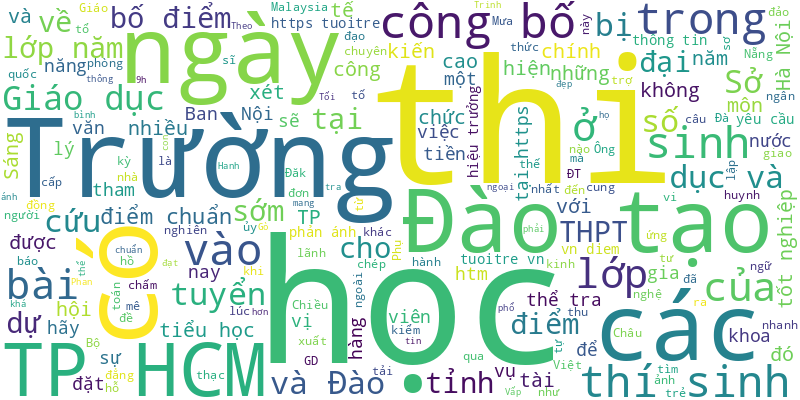
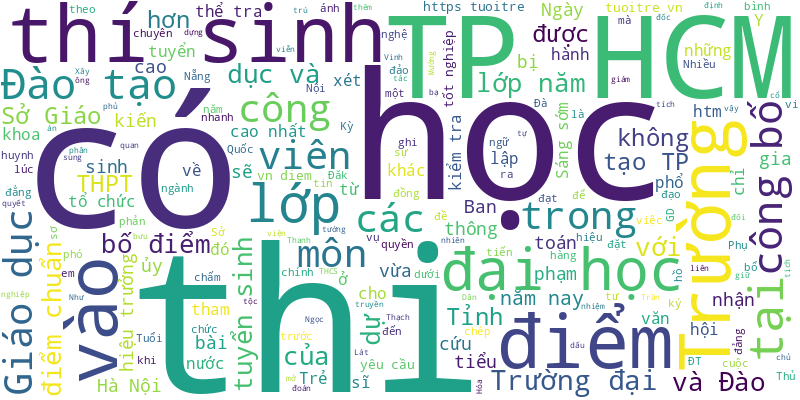
🍀 = 80%

diff --git a/README.md b/README.md
@@ -1,8 +1,20 @@
 # Tuoi Tre RSS 
 
 ## Giáo dục 
-- "Mưa" điểm 10 xuất hiện ở môn ngoại ngữ. Không có thí sinh nào đạt điểm thi 10 môn ngữ văn.
-- Sáng sớm 19-6, Sở Giáo dục và đào tạo TP.HCM công bố điểm thi lớp 10 năm 2024. Thí sinh có thể tra cứu tại https://tuoitre.vn/diem-thi.htm
+- Ngày 19-6, Sở Giáo dục và Đào tạo TP.HCM công bố điểm tuyển sinh lớp 10. Tuổi Trẻ ghi nhận những phân tích, dự đoán của giáo viên về điểm chuẩn vào các trường THPT công lập năm học 2024 - 2025.
+- Trường đại học Công nghiệp Hà Nội, Trường đại học Xây dựng Hà Nội, Học viện Công nghệ bưu chính viễn thông... vừa công bố điểm chuẩn xét học bạ, có ngành điểm chuẩn cao nhất 28,97 điểm.
+- Thủ tướng Chính phủ vừa ký quyết định bổ nhiệm ông Trần Cao Vinh, chủ tịch hội đồng trường Trường đại học Khoa học tự nhiên (Đại học Quốc gia TP.HCM), giữ chức phó giám đốc Đại học Quốc gia TP.HCM.
+- Ủy ban Kiểm tra Tỉnh ủy Thanh Hóa sẽ vào cuộc tiến hành kiểm tra khi có dấu hiệu vi phạm đối với tổ chức đảng, đảng viên liên quan đến công tác tuyển sinh vào Trường phổ thông Dân tộc nội trú THCS Mường Lát.
+- Trường đại học Y khoa Phạm Ngọc Thạch, TP.HCM vừa bổ sung đề án tuyển sinh đại học 2024, với việc mở thêm ngành y học cổ truyền.
+- 55.264/98.464 thí sinh có điểm môn toán thi lớp 10 tại TP.HCM dưới 5 điểm. Như vậy, hơn 56% thí sinh có điểm toán dưới trung bình.
+- Nhận được phản ánh bị lừa đảo của học viên đang theo học đào tạo nhân viên hàng không tại Skyteam, phóng viên Tuổi Trẻ vào cuộc. Nhiều thông tin dần hé lộ.
+- 'Ước mơ từ nhỏ của em là trở thành bác sĩ. Em mong muốn chữa bệnh giúp đời', thủ khoa thi vào lớp 10 TP.HCM năm nay chia sẻ.
+- Trường đại học Sư phạm (Đại học Huế) hơn một năm nay không có hiệu trưởng và hiệu phó, mà chỉ có quyền hiệu trưởng.
+- Kỳ thi vào lớp 10 năm nay tại TP.HCM ghi nhận một thí sinh có điểm thi cao nhất là 28,75 và ba thí sinh khác được 28,5 điểm.
+- Sở Giáo dục và Đào tạo TP.HCM vừa công bố phổ điểm các môn thi tuyển sinh lớp 10 năm 2024.
+- Trong số hơn 98.000 thí sinh dự thi lớp 10 tại TP.HCM, chỉ có 49 thí sinh đạt điểm 10 môn toán. Năm trước có 121 thí sinh.
+- Hơn 1.700 thí sinh được điểm 10 môn ngoại ngữ. Không có thí sinh nào đạt điểm thi 10 môn ngữ văn.
+- Sáng sớm 19-6, Sở Giáo dục và Đào tạo TP.HCM công bố điểm thi lớp 10 năm 2024. Thí sinh có thể tra cứu tại https://tuoitre.vn/diem-thi.htm
 - TP.HCM sẽ công bố điểm thi tuyển sinh lớp 10 năm 2024 vào lúc 9h sáng 19-6, sớm hơn dự kiến. Thí sinh có thể tra cứu nhanh tại https://tuoitre.vn/diem-thi.htm
 - Tối 18-6, Sở Giáo dục và Đào tạo TP Đà Nẵng công bố điểm chuẩn thi vào lớp 10. Năm nay Trường THPT Phan Châu Trinh có điểm chuẩn lớp 10 cao nhất với 58,38 điểm.
 - Theo tin từ hội đồng chấm thi tuyển sinh lớp 10 năm 2024 ở TP.HCM, phổ điểm môn toán năm nay khá đẹp.
@@ -19,52 +31,11 @@
 - Cho thí sinh khác chép bài hoặc chép bài của thí sinh khác bị trừ 50% điểm bài môn thi đó trong kỳ thi tốt nghiệp THPT.
 - Dự kiến điểm thi vào lớp 10 và điểm chuẩn các trường THPT công lập ở Đà Nẵng, Trường THTP chuyên Lê Quý Đôn sẽ công bố lúc 19h ngày 18-6.
 - Ngày hội tư vấn xét tuyển diễn ra tại Hà Nội và TP.HCM với sự tham gia của hàng trăm trường đại học, cao đẳng, đơn vị giáo dục trong và ngoài nước.
-- Nữ sinh đi thi lớp 10 mất tích nhiều ngày ở TP Châu Đốc, tỉnh An Giang được cơ quan chức năng tìm thấy ở Đồng Nai và giao cho gia đình.
-- TS Võ Nguyễn Đại Việt, người ở vị trí thứ 17 trong số 47 người Việt vào “top nhà khoa học ảnh hưởng nhất thế giới”, là tác giả của bài báo vừa bị một tạp chí quốc tế gỡ bỏ. Ông giải thích thế nào khi công bố 3 ngày 1 bài báo khoa học?
-- Những ngày qua xuất hiện một số trang thông tin, nhóm Zalo và email mạo danh các đơn vị của Bộ Giáo dục và Đào tạo để cung cấp thông tin, trong đó đăng tải nhiều hình ảnh, bài viết có nội dung lừa đảo chiếm đoạt tài sản.
-- Dưới ánh đèn sân khấu của SIU Piano Competition, từng nốt nhạc vang lên thể hiện tài năng và niềm đam mê của các thí sinh.
-- Kỳ thi sắp tới, thầy mong các em 'hãy vượt qua trùng vi thạch trận như ông lái đò, hãy cắt sợi dây trói buộc số phận mà tự cứu mình như Mị'.
-- Dự hội nghị khoa học tại TP Quy Nhơn, hai giáo sư nổi tiếng Jean-François Joanny và Detlef Lohse gửi gắm đến các bạn trẻ mê nghiên cứu: hãy tò mò về những hiện tượng tự nhiên, tìm hiểu về chúng và đặt câu hỏi tại sao.
-- Sở Nội vụ Hà Nội ngày 14-6 cho biết thông tin phản ánh '63 giáo viên Hà Nội tố bị bùng tiền hỗ trợ đào tạo học thạc sĩ' là không chính xác.
-- Có 8 chương trình đào tạo chuẩn cùng có điểm chuẩn xét học bạ 29,9, gồm kiểm toán, ngân hàng, ngân hàng số, tài chính, công nghệ tài chính, kinh doanh quốc tế, logistics và quản lý chuỗi cung ứng, luật kinh tế.
-- Chiều 15-6, Trường đại học Thương mại chính thức công bố điểm chuẩn bốn phương thức xét tuyển sớm năm nay.
-- Ngoài việc bị phản ánh thu nhiều khoản tiền vô lý, một số học sinh đang lan truyền câu chuyện trường thu cả ‘tiền chống trượt’ tốt nghiệp THPT. Hiệu trưởng đã trả lời về việc này.
-- Chiều 15-6, Phòng Giáo dục và Đào tạo TP Thủ Đức đã công bố đề khảo sát vào lớp 6 năm học 2024-2025.
-- Số liệu được Tổng lãnh sự quán Malaysia tại TP.HCM công bố tại Ngày hội du học Malaysia ngày 15-6.
 ![Edu](Edu.png)
 ## Thời Sự 
-- Bộ trưởng Bộ Công an - thượng tướng Lương Tam Quang đã trình Quốc hội dự thảo Luật Phòng cháy, chữa cháy và cứu nạn, cứu hộ với nhiều quy định mới.
-- Tại các đô thị lớn hiện nay như Hà Nội, TP.HCM, không khó để bắt gặp cảnh đậu xe bừa từ lề đường, vỉa hè đường lớn đến chui vào các con hẻm, khiến giao thông thêm áp lực.
-- Hôm qua (18-6), Quốc hội thảo luận ở hội trường về dự thảo Luật Công đoàn sửa đổi. Dự Luật quy định kinh phí Công đoàn do cơ quan, tổ chức, doanh nghiệp đóng bằng 2% quỹ tiền lương làm căn cứ đóng bảo hiểm xã hội cho người lao động.
-- Hiện một nhánh hầm chui đã nhìn rõ từ bên nay qua bên kia, dự kiến thông xe kỹ thuật vào cuối tháng 8 tới.
-- Chiều 18-6, dự thảo Luật sửa đổi, bổ sung một số điều của Luật Dược được đưa ra bàn thảo tại kỳ họp thứ 7 Quốc hội khóa XV với nhiều điểm mới đáng chú ý.
-- Đề xuất chi tới 50 triệu đồng mua tin phòng chống tham nhũng; TP.HCM muốn mở rộng phạm vi cho xe điện du lịch 4 bánh...
-- Chuyên cơ của Tổng thống Putin dự kiến đến Hà Nội hôm nay 19-6, đưa ông trở lại Việt Nam sau gần 7 năm trong khuôn khổ một chuyến thăm cấp nhà nước.
-- Hôm nay 19-6, nắng nóng gay gắt diễn ra khắp nơi ở Bắc Bộ và Trung Bộ, thời tiết khô hanh. Nam Bộ tối nhiều nơi mưa rào.
-- Giám đốc Công an TP Hà Nội nhấn mạnh chuyến thăm Việt Nam của Tổng thống Nga Putin là sự kiện có ý nghĩa đặc biệt quan trọng, cần đảm bảo tuyệt đối an ninh, an toàn cho đoàn.
-- Lực lượng chức năng cũng yêu cầu người tham gia giao thông chấp hành nghiêm Luật Giao thông đường bộ; khi gặp các xe được quyền ưu tiên thì cần chấp hành theo hướng dẫn phân luồng của lực lượng chức năng và nhanh chóng nhường đường.
-- Chính quyền phường Hàng Bông đã lập biên bản vi phạm hành chính đối với ông P.N.H.. Người phụ nữ trong đoạn clip là khách của quán ông H., và ông này cũng là người kéo cô gái ra khỏi khu vực đường ray tàu hỏa.
-- Mây dông đang phát triển mạnh tại TP.HCM, dự báo đêm nay một vài quận huyện có mưa to.
-- Ngày 18-6, Phó thủ tướng Trần Lưu Quang ký quyết định số 528/QĐ-TTg của Thủ tướng Chính phủ về việc thi hành kỷ luật đối với ông Vũ Chí Giang, phó chủ tịch UBND tỉnh Vĩnh Phúc.
-- Người đi trên quốc lộ 1 nối TP.HCM - Bình Dương tá hỏa khi thấy ô tô bốc cháy, lửa khói cuồn cuộn.
-- Với đề xuất cấm xuất khẩu di vật, cổ vật để tránh mất di sản ra nước ngoài, nhiều đại biểu Quốc hội cho rằng là cần thiết trong bối cảnh nhiều cổ vật bị đấu giá, kinh doanh ở nước ngoài.
-- Chủ tịch Quốc hội Trần Thanh Mẫn đề nghị cần kiểm soát chặt chẽ quảng cáo thuốc, không để nội dung quảng cáo sai lệch, người dân tiền mất tật mang do sử dụng thuốc theo quảng cáo.
-- Ông Nguyễn Văn Thành, giám đốc Sở Khoa học và Công nghệ tỉnh Quảng Ngãi, bị tố cáo và hai kết luận tố cáo xác định có nhiều vi phạm nhưng vẫn được đề nghị đánh giá hoàn thành tốt nhiệm vụ.
-- Đại sứ Việt Nam tại Nga Đặng Minh Khôi nhận định việc Tổng thống Putin thăm cấp nhà nước thể hiện sự coi trọng của Nga, đồng thời cho thấy Việt Nam độc lập và tự chủ trong đối ngoại.
-- Biết vợ chồng nạn nhân muốn có con nối dõi nên Dung đã đưa thông tin gian dối có khả năng tìm người cho trứng, mang thai hộ để lừa đảo lấy tiền.
-- Thủ tướng vừa có tờ trình Chủ tịch nước tặng quà cho người có công với cách mạng dịp 27-7, tổng kinh phí gần 420 tỉ đồng.
-- Tại dự thảo Luật Dược sửa đổi, Chính phủ đề xuất không được kinh doanh dược trên mạng xã hội và các hình thức kinh doanh điện tử khác.
-- Những ngày này, việc bàn giao mặt bằng cho tuyến metro số 2 (Bến Thành - Tham Lương) trên đường Cách mạng tháng 8 đang gấp rút để kịp hoàn thành khâu này trong tháng 6.
-- Lãnh đạo TP.HCM yêu cầu việc thiết kế kiến trúc sân khấu phục vụ biểu diễn của nhà hát nhạc giao hưởng, nhạc và vũ kịch phải đáp ứng các yêu cầu của sân khấu hiện đại bậc nhất trên thế giới.
-- Chưa đầy 2 tuần sau khi Công an TP.HCM kết luận điều tra, viện kiểm sát cùng cấp đã hoàn tất cáo trạng truy tố cô gái bắt cóc hai bé ở phố đi bộ Nguyễn Huệ để quay clip khiêu dâm.
-- Cầu Vàm Cái Cát tại xã An Điền, huyện Thạnh Phú, tỉnh Bến Tre do báo Tuổi Trẻ vận động, Ngân hàng Nông nghiệp và Phát triển nông thôn Việt Nam đóng góp 300 triệu đồng đã được khánh thành và đưa vào sử dụng vào ngày 18-6.
-- Ông Huỳnh Thanh Phương - chủ tịch Hội Nông dân phường Phước Tân, TP Biên Hòa - bị kẻ lạ dọa giết.
-- Ông Nguyễn Thanh Tùng, tổng giám đốc Công ty cổ phần Thương mại xuất nhập khẩu dầu khí Thái Bình Dương, bị khởi tố, bắt tạm giam vì vi phạm quy định về kế toán gây hậu quả nghiêm trọng.
-- Chủ tịch Tổng liên đoàn Lao động Việt Nam Nguyễn Đình Khang cho hay tài chính công đoàn được Kiểm toán Nhà nước định kỳ kiểm toán 2 năm/lần và báo cáo Quốc hội.
-- Một người đàn ông ở tỉnh Quảng Ninh đã bị truy nã về tội giết người, bỏ trốn lên huyện miền núi Nam Giang, Quảng Nam sau 33 năm thì bị bắt giữ.
-- Trung tâm Quản lý điều hành giao thông đô thị TP.HCM cho biết sắp tiến hành cải tạo, mở rộng đường Võ Văn Kiệt (từ nút giao Tân Kiên về đường hầm sông Sài Gòn).
 ![New](News.png)
 ## Nhịp sống số 
+- Vừa qua, Motorola Solutions đã khai trương trung tâm R&amp;D tại TP.HCM, với mục tiêu thúc đẩy nghiên cứu và phát triển phần mềm, phân tích dữ liệu và công nghệ trí tuệ nhân tạo (AI).
 - Họp trực tuyến ngày càng phổ biến vì đáp ứng nhu cầu công việc tức thời, tối ưu thời gian và chi phí.
 - Công ty Ricoh Imaging của Nhật Bản thông báo sẽ cho ra mắt một máy ảnh phim Pentax mới lần đầu tiên sau hai thập kỷ
 - Một trong những vấn đề nghiêm trọng nhất trong lừa đảo thanh toán là ngoài các kịch bản tấn công lừa đảo đa dạng và phong phú, kỹ thuật công nghệ cũng càng tinh vi.
@@ -94,5 +65,4 @@
 - Galaxy Z Fold là một biểu tượng của Samsung trong công nghệ mới, khi có khả năng gập đôi và màn hình rộng gần 8 inch.
 - Để các đối tác nhà hàng, quán ăn được tiếp sức trên chặng đường đầy cạnh tranh, Gojek tiếp tục xây dựng kế hoạch hỗ trợ trong năm 2024.
 - Kết hợp lợi ích của public cloud và các máy chủ vật lý trong một mô hình Hybrid tăng mức độ linh hoạt, khả năng mở rộng và hiệu quả chi phí tối ưu.
-- Galaxy AI trên S24 chưa kịp ngưng sốt thì mới đây, người dùng có cơ hội trải nghiệm những tính năng thông minh trên dòng Galaxy Tab S9.
 ![life](Life.png)
